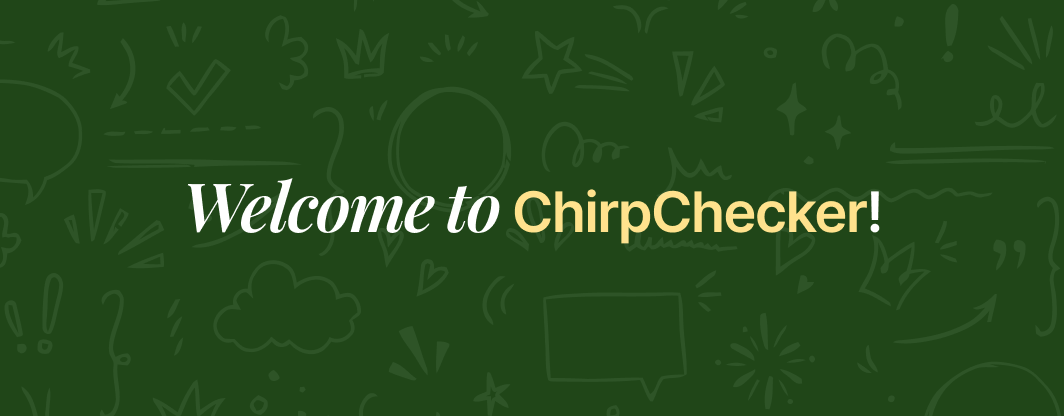
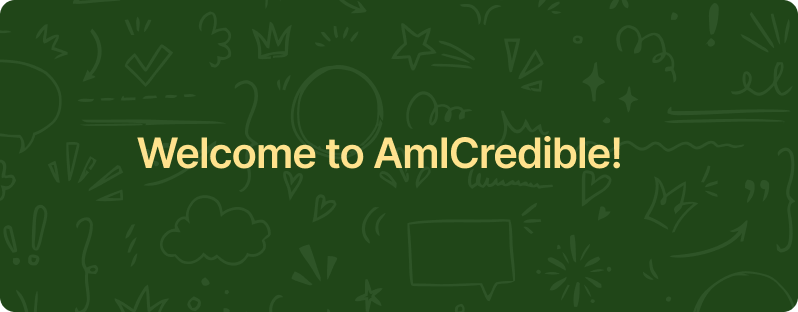
image updated

diff --git a/unsubscribed-marketing.html b/unsubscribed-marketing.html
@@ -3,110 +3,77 @@
   <head>
     <meta charset="UTF-8" />
     <meta name="viewport" content="width=device-width, initial-scale=1.0" />
-    <title>Unsubscribed from Marketing Emails | AmICredible</title>
+    <title>Welcome to MVP | AmICredible</title>
     <link
       href="https://fonts.googleapis.com/css?family=Inter:500,600,700&display=swap"
       rel="stylesheet"
     />
   </head>
-  <body
-    style="
-      margin: 0;
-      padding: 0;
-      background: #f4faff;
-      font-family: 'Inter', Arial, sans-serif;
-      color: #1d203e;
-      letter-spacing: -2%;
-      line-height: 26px;
-    "
-  >
-    <table
-      width="100%"
-      cellpadding="0"
-      cellspacing="0"
-      border="0"
-      style="background: #f4faff"
-    >
+  <body style="margin: 0; padding: 0; background: #f4faff; font-family: 'Inter', Arial, sans-serif; color: #1d203e; letter-spacing: -2%; line-height: 26px;">
+    <table width="100%" cellpadding="0" cellspacing="0" border="0" style="background: #f4faff">
       <tr>
         <td align="center">
-          <table
-            width="100%"
-            cellpadding="0"
-            cellspacing="0"
-            border="0"
-            style="
-              max-width: 560px;
-              background: #fff;
-              border-radius: 8px;
-              box-shadow: 0 2px 8px #1d203e14;
-              margin: 32px 0;
-            "
-          >
-            <!-- Logo -->
-            <tr>
-              <td align="center" style="padding: 8px 0px 8px 0px">
-                <img
-                  src="images/logo.png"
-                  alt="AmICredible Logo"
-                  style="
-                    display: block;
-                    max-width: 64px;
-                    max-height: 64px;
-                    height: auto;
-                  "
-                />
-              </td>
-            </tr>
+          <table width="100%" cellpadding="0" cellspacing="0" border="0" style="max-width: 580px; background: #fff; border-radius: 8px; box-shadow: 0 2px 8px #1d203e14; margin: 32px 0;">
+            <!-- Header -->
+            {% include 'shared/header.html' %}
             <!-- Banner -->
             <tr>
               <td align="center" style="padding: 0 0 0 0">
                 <img
-                  src="images/unsubscribed-marketing-banner.png"
-                  alt="You've Been Unsubscribed from Marketing Emails"
-                  style="
-                    display: block;
-                    width: 100%;
-                    max-width: 512px;
-                    border-radius: 10px;
-                  "
+                  src="{% static 'images/mvp_banner.png' %}"
+                  alt="Welcome to MVP"
+                  style="display: block; width: 100%; max-width: 532px; border-radius: 10px;"
                 />
               </td>
             </tr>
             <!-- Content -->
             <tr>
               <td style="padding: 32px 24px 0 24px">
-                <h2
-                  style="
-                    margin: 0 0 16px 0;
-                    font-size: 22px;
-                    font-weight: 700;
-                    color: #1d203e;
-                  "
-                >
-                  Hi {{username}},
+                <h2 style="margin: 0 0 16px 0; font-size: 22px; font-weight: 700; color: #1d203e;">
+                  Hi {{ username }},
                 </h2>
-                <p
-                  style="
-                    margin: 0 0 16px 0;
-                    font-size: 16px;
-                    color: #1d203e;
-                    font-weight: 500;
-                  "
-                >
-                  You have successfully unsubscribed from our marketing emails.
-                  You will no longer receive promotional messages from us.
+                <p style="margin: 0 0 16px 0; font-size: 16px; color: #1d203e; font-weight: 500;">
+                  We’re thrilled to welcome you to AmICredible MVP – where powerful tools meet clarity, credibility, and control.
                 </p>
-                <p
-                  style="
-                    margin: 0 0 24px 0;
-                    font-size: 16px;
-                    color: #1d203e;
-                    font-weight: 500;
-                  "
-                >
-                  If this was a mistake or you wish to resubscribe in the
-                  future, you can update your preferences at any time.
+                <p style="margin: 0 0 24px 0; font-size: 16px; color: #1d203e; font-weight: 500;">
+                  Your upgrade unlocks a set of advanced features designed to help you dig deeper and share smarter.
                 </p>
+                <!-- Premium Features Section -->
+                <div style="margin-bottom: 24px">
+                  <div style="font-size: 20px; font-weight: 700; color: #1d203e; margin-bottom: 12px;">
+                    🚀 Your Premium Features Include:
+                  </div>
+                  <div style="background: #fff9e666; border: 1px solid #ffc851; border-radius: 6px; padding: 26px 14px 26px 26px; font-size: 15px; color: #1d203e;">
+                    <ul style="margin: 0 0 0 18px; padding: 0; font-size: 16px; color: #1d203e;">
+                      <li style="margin-bottom: 8px"><strong>Deep Check</strong> – Get richer, more accurate credibility analysis</li>
+                      <li style="margin-bottom: 8px"><strong>Full History</strong> – View, filter, and organize all your past chirps</li>
+                      <li style="margin-bottom: 8px"><strong>Leaderboard</strong> – See how your credibility compares to others</li>
+                      <li style="margin-bottom: 8px"><strong>Challenge Analysis</strong> – Disagree with a verdict? Challenge it</li>
+                      <li style="margin-bottom: 8px"><strong>Mobile Features</strong> – Use voice-to-text and text-to-voice on the go</li>
+                      <li><strong>Browser Plugin</strong> – Fact-check content directly from your browser</li>
+                    </ul>
+                  </div>
+                </div>
+                <!-- Access Confirmation Section -->
+                <div style="border-radius: 10px; padding: 24px 0 0 0; text-align: center; margin-bottom: 24px;">
+                  <img
+                    src="{% static 'images/mvp_premium.png' %}"
+                    alt="Premium Crown"
+                    style="width: 100%; max-width: 100%; margin: 0 0 0 0"
+                  />
+                </div>
+                <!-- Next Step Section -->
+                <div style="margin-bottom: 24px">
+                  <div style="font-size: 20px; font-weight: 700; color: #1d203e; margin-bottom: 8px;">
+                    🚀 Next Step: Start Exploring
+                  </div>
+                  <p style="margin: 0 0 16px 0; font-size: 16px; color: #1d203e">
+                    Jump into your dashboard and try a Deep Check today:
+                  </p>
+                  <div style="text-align: center">
+                    {% include 'shared/button.html' with url=dashboard_link text='Go to Dashboard' %}
+                  </div>
+                </div>
               </td>
             </tr>
             <tr>
@@ -118,66 +85,7 @@
               </td>
             </tr>
             <!-- Footer -->
-            <tr>
-              <td>
-                <table
-                  width="90%"
-                  cellpadding="0"
-                  cellspacing="0"
-                  border="0"
-                  style="
-                    background: #f8f8f8;
-                    border-radius: 8px;
-                    padding: 0;
-                    margin: 24px auto 0 auto;
-                  "
-                >
-                  <tr>
-                    <td style="padding: 24px; font-size: 12px; color: #66605e">
-                      <div
-                        style="margin-bottom: 8px; color: rgba(29, 32, 62, 0.5)"
-                      >
-                        © 2025 AmICredible. All Rights Reserved
-                      </div>
-                      <div
-                        style="margin-bottom: 8px; color: rgba(29, 32, 62, 0.5)"
-                      >
-                        2007 Dauphin Street, Suite C
-                      </div>
-                      <div>
-                        <a
-                          href="#"
-                          style="
-                            color: rgba(29, 32, 62, 0.5);
-                            text-decoration: none;
-                            margin-right: 18px;
-                          "
-                          >Privacy Policy</a
-                        >
-                        <a
-                          href="#"
-                          style="
-                            color: rgba(29, 32, 62, 0.5);
-                            text-decoration: none;
-                            margin-right: 18px;
-                          "
-                          >Get Help</a
-                        >
-                        <a
-                          href="#"
-                          style="
-                            color: rgba(29, 32, 62, 0.5);
-                            text-decoration: none;
-                            margin: 0 8px;
-                          "
-                          >Web Version</a
-                        >
-                      </div>
-                    </td>
-                  </tr>
-                </table>
-              </td>
-            </tr>
+            {% include 'shared/footer.html' %}
             <!-- Spacer for margin below the footer box -->
             <tr>
               <td height="24" style="line-height: 24px; font-size: 1px">
@@ -190,3 +98,4 @@
     </table>
   </body>
 </html>
+
